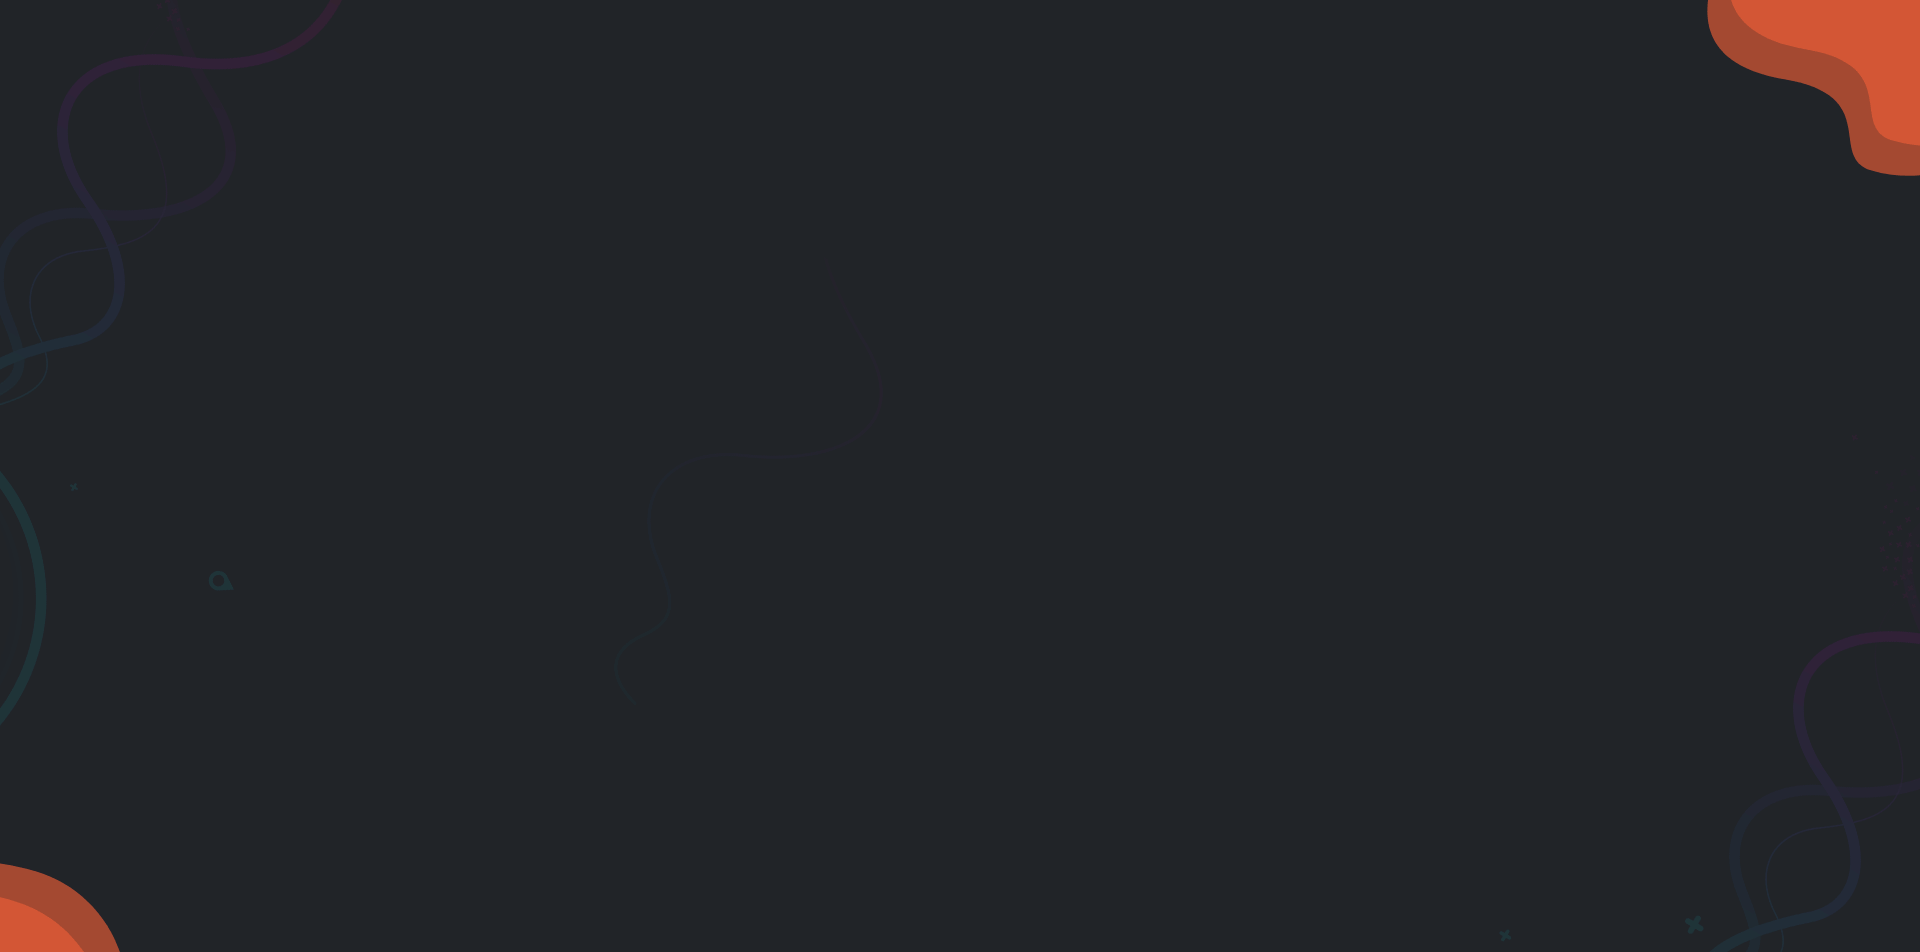
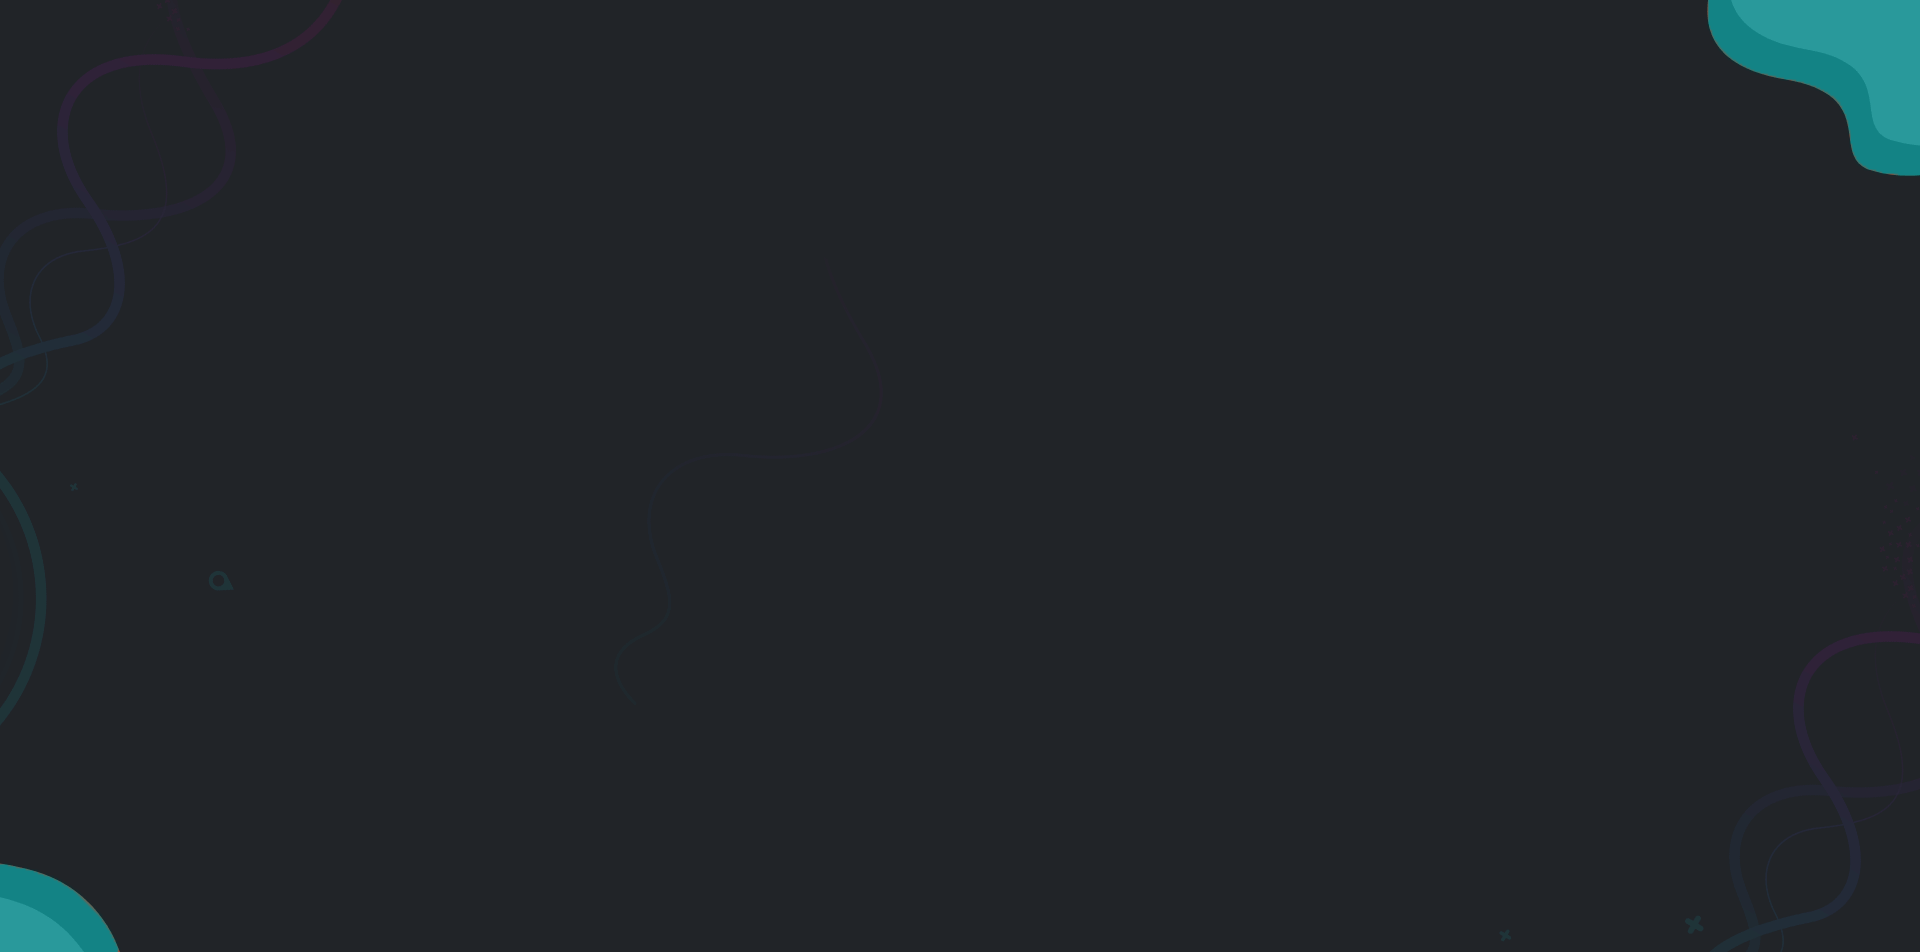
ded

Changed region(s): [[0.875, 0.0, 1.0, 0.1828], [0.0, 0.9139, 0.0625, 1.0]]

diff --git a/index.html b/index.html
@@ -3,10 +3,10 @@
 
 <head>
   <meta charset="utf-8">
-  <title>Morex - Personal Portfolio HTML Template</title>
+  <title>Fakhrul Alam</title>
   <meta name="description" content="Morden Bootstrap HTML5 Template">
   <meta name="viewport" content="width=device-width, initial-scale=1">
-  <link rel="shortcut icon" type="image/x-icon" href="assets/img/favicon.ico">
+  <link rel="shortcut icon" type="image/x-icon" href="assets/img/">
     
    <!-- ======= All CSS Plugins here ======== -->
   <link rel="stylesheet" href="assets/css/plugins/swiper-bundle.min.css">
@@ -47,7 +47,7 @@
     <div class="home2__hero--bg">
     
         <!-- Start header area -->
-        <header class="header__section  header__transparent">
+        <!-- <header class="header__section  header__transparent">
             <div class="container">
                 <div class="main__header d-flex justify-content-between align-items-center">
                     <div class="main__logo">
@@ -62,7 +62,7 @@
                     </button>
                 </div>
             </div>
-        </header>
+        </header> -->
         <!-- End header area -->
         <main class="main__content_wrapper">
             <!-- Start slider section -->
@@ -76,8 +76,8 @@
                                         <img class="hero__profile--thumbnail__media" src="assets/img/hero/profile-image.png" alt="img">
                                     </div>
                                     <div class="hero__profile--text">
-                                        <h2 class="hero__profile--title">Maras Faron</h2>
-                                        <span class="hero__profile--subtitle">Ui/Ux Desinger</span>
+                                        <h2 class="hero__profile--title">Fakhrul Alam</h2>
+                                        <span class="hero__profile--subtitle">Frontend Desinger</span>
                                     </div>
                                 </div>
                                 <ul class="hero__profile--info position__relative">
@@ -87,20 +87,19 @@
                                     </li>
                                     <li class="hero__profile--info__list">
                                         <span class="hero__profile--info__icon"><svg class="max-w-5" xmlns="http://www.w3.org/2000/svg" width="16" height="28" viewBox="0 0 24 24" fill="none" stroke="currentColor" stroke-width="2" stroke-linecap="round" stroke-linejoin="round"><path d="M4 4h16c1.1 0 2 .9 2 2v12c0 1.1-.9 2-2 2H4c-1.1 0-2-.9-2-2V6c0-1.1.9-2 2-2z"></path><polyline points="22,6 12,13 2,6"></polyline></svg></span>
-                                        <a class="hero__profile--info__text" href="mailto:exampal@gmail.com">example@gmail.com</a>
+                                        <a class="hero__profile--info__text" href="mailto:exampal@gmail.com">ifakhrul23@gmail.com</a>
                                     </li>
                                     <li class="hero__profile--info__list">
                                         <span class="hero__profile--info__icon"><svg class="max-w-5" width="16" height="34" fill="currentColor" stroke="currentColor" xmlns="http://www.w3.org/2000/svg" viewBox="0 0 384 512"><path d="M215.7 499.2C267 435 384 279.4 384 192C384 86 298 0 192 0S0 86 0 192c0 87.4 117 243 168.3 307.2c12.3 15.3 35.1 15.3 47.4 0zM192 256c-35.3 0-64-28.7-64-64s28.7-64 64-64s64 28.7 64 64s-28.7 64-64 64z"></path></svg></span>
-                                        <span class="hero__profile--info__text">fulbariFranciso,4200.</span>
+                                        <span class="hero__profile--info__text">Dhaka, Bangladesh</span>
                                     </li>
                                 </ul>
                             </div>
                             <div class="hero__content hero__profile--content">
                                 <span class="hero__content--subtitle text__secondary mb-10">HELLO  I'M</span>
-                                <h2 class="hero__content--title mb-15">Maras Faron! </h2>
-                                <h3 class="hero__content--subtitle2 mb-20">UX/UI Designer and Developer </h3>
-                                <p class="hero__content--desc mb-30">There are many variations of sum availabled 
-                                    in alley of type and scrambled it some.</p>
+                                <h2 class="hero__content--title mb-15">Fakhrul Alam! </h2>
+                                <h3 class="hero__content--subtitle2 mb-20">Frontend Designer </h3>
+                                <p class="hero__content--desc mb-30">An experienced web designer who focuses heavily on user experience and cutting-edge technologies to create visually stunning websites.</p>
                                 <button class="primary__btn download__btn mb-30">
                                     <svg class="download__btn--svg" xmlns="http://www.w3.org/2000/svg" width="24" height="24" viewBox="0 0 24 24" fill="none" stroke="currentColor" stroke-width="2" stroke-linecap="round" stroke-linejoin="round" ><path d="M21 15v4a2 2 0 0 1-2 2H5a2 2 0 0 1-2-2v-4"></path><polyline points="7 10 12 15 17 10"></polyline><line x1="12" y1="15" x2="12" y2="3"></line></svg>
                                     Download CV
@@ -108,10 +107,11 @@
                                 <div class="social__share style2 d-flex align-items-center">
                                     <span class="social__share--title">Follow Me: </span>
                                     <ul class="social__share--wrapper d-flex">
-                                        <li class="social__share--child"><a class="social__share--link" href="#">
-                                            <svg fill="currentColor" xmlns="http://www.w3.org/2000/svg"  viewBox="0 0 24 24" width="20px" height="20px">    <path d="M17.525,9H14V7c0-1.032,0.084-1.682,1.563-1.682h1.868v-3.18C16.522,2.044,15.608,1.998,14.693,2 C11.98,2,10,3.657,10,6.699V9H7v4l3-0.001V22h4v-9.003l3.066-0.001L17.525,9z"/></svg>
+                                        <li class="social__share--child"><a class="social__share--link" href="https://www.facebook.com/fakhrul.alam.20/">
+                                            
+                                            <img src="assets/img/icon/facebook-boxed-svgrepo-com.svg" alt="">
                                             <span class="visually-hidden">Facebook</span>
-                                        </a>
+                                            </a>
                                         </li>
                                         <li class="social__share--child"><a class="social__share--link" href="#">
                                             <svg fill="currentColor" xmlns="http://www.w3.org/2000/svg"  viewBox="0 0 24 24" width="20px" height="20px">    <path d="M12,2C6.477,2,2,6.477,2,12c0,4.237,2.636,7.855,6.356,9.312c-0.087-0.791-0.167-2.005,0.035-2.868 c0.182-0.78,1.172-4.971,1.172-4.971s-0.299-0.599-0.299-1.484c0-1.391,0.806-2.428,1.809-2.428c0.853,0,1.265,0.641,1.265,1.408 c0,0.858-0.546,2.141-0.828,3.329c-0.236,0.996,0.499,1.807,1.481,1.807c1.777,0,3.143-1.874,3.143-4.579 c0-2.394-1.72-4.068-4.177-4.068c-2.845,0-4.515,2.134-4.515,4.34c0,0.859,0.331,1.781,0.744,2.282 c0.082,0.099,0.093,0.186,0.069,0.287c-0.076,0.316-0.244,0.995-0.277,1.134c-0.043,0.183-0.145,0.222-0.334,0.133 c-1.249-0.582-2.03-2.408-2.03-3.874c0-3.154,2.292-6.052,6.608-6.052c3.469,0,6.165,2.472,6.165,5.776 c0,3.447-2.173,6.22-5.189,6.22c-1.013,0-1.966-0.527-2.292-1.148c0,0-0.502,1.909-0.623,2.378 c-0.226,0.868-0.835,1.958-1.243,2.622C9.975,21.843,10.969,22,12,22c5.522,0,10-4.478,10-10S17.523,2,12,2z"/></svg>
@@ -123,7 +123,7 @@
                                             <span class="visually-hidden">Twitter</span>
                                             </a>
                                         </li>
-                                        <li class="social__share--child"><a class="social__share--link" href="#">
+                                        <li class="social__share--child"><a class="social__share--link" href="https://www.instagram.com/fakhrul_alam_/">
                                             <svg fill="currentColor" xmlns="http://www.w3.org/2000/svg"  viewBox="0 0 24 24" width="20px" height="20px"><path d="M 4 2 C 2.898438 2 2 2.898438 2 4 L 2 20 C 2 21.101563 2.898438 22 4 22 L 20 22 C 21.101563 22 22 21.101563 22 20 L 22 4 C 22 2.898438 21.101563 2 20 2 Z M 4 4 L 20 4 L 20 8 L 16.453125 8 C 15.355469 6.777344 13.765625 6 12 6 C 10.234375 6 8.644531 6.777344 7.546875 8 L 4 8 Z M 17 5 L 17 7 L 19 7 L 19 5 Z M 12 8 C 14.222656 8 16 9.777344 16 12 C 16 14.222656 14.222656 16 12 16 C 9.777344 16 8 14.222656 8 12 C 8 9.777344 9.777344 8 12 8 Z M 12 10 C 11.800781 10 11.601563 10 11.402344 10.097656 C 11.699219 10.300781 12 10.601563 12 11 C 12 11.601563 11.601563 12 11 12 C 10.601563 12 10.300781 11.800781 10.097656 11.402344 C 10 11.601563 10 11.800781 10 12 C 10 13.101563 10.898438 14 12 14 C 13.101563 14 14 13.101563 14 12 C 14 10.898438 13.101563 10 12 10 Z"/></svg>
                                             <span class="visually-hidden">Instagram</span>
                                             </a>
@@ -133,11 +133,11 @@
                                 
                             </div>
                         </div>
-                        <div class="home__navigation--menu">
+                        <!-- <div class="home__navigation--menu">
                             <nav>
                                 <ul class="home__navigation--menu__wrapper">
                                     <li class="home__navigation--menu__items">
-                                        <a class="home__navigation--menu__link" href="index-2.html">
+                                        <a class="home__navigation--menu__link" href="index.html">
                                             <span class="home__navigation--menu__text">HOME</span>
                                             <span class="home__navigation--menu__icon"><svg width="16" fill="currentColor" xmlns="http://www.w3.org/2000/svg" viewBox="0 0 576 512"><path d="M575.8 255.5c0 18-15 32.1-32 32.1h-32l.7 160.2c0 2.7-.2 5.4-.5 8.1V472c0 22.1-17.9 40-40 40H456c-1.1 0-2.2 0-3.3-.1c-1.4 .1-2.8 .1-4.2 .1H416 392c-22.1 0-40-17.9-40-40V448 384c0-17.7-14.3-32-32-32H256c-17.7 0-32 14.3-32 32v64 24c0 22.1-17.9 40-40 40H160 128.1c-1.5 0-3-.1-4.5-.2c-1.2 .1-2.4 .2-3.6 .2H104c-22.1 0-40-17.9-40-40V360c0-.9 0-1.9 .1-2.8V287.6H32c-18 0-32-14-32-32.1c0-9 3-17 10-24L266.4 8c7-7 15-8 22-8s15 2 21 7L564.8 231.5c8 7 12 15 11 24z"></path></svg></span>
                                         </a>
@@ -174,7 +174,7 @@
                                     </li>
                                 </ul>
                             </nav>
-                        </div>
+                        </div> -->
                     </div>
                 </div>
             </div>
@@ -184,13 +184,8 @@
             <footer class="footer footer__section2">
                 <div class="container">
                     <div class="main__footer d-flex justify-content-between align-items-center">
-                        <p class="copyright__content mb-0">Developed with <span>
-                            <svg xmlns="http://www.w3.org/2000/svg" width="24" height="24" viewBox="0 0 24 24" fill="currentColor" stroke="text-paragraph" stroke-width="2" stroke-linecap="round" stroke-linejoin="round" class="feather feather-heart"><path d="M20.84 4.61a5.5 5.5 0 0 0-7.78 0L12 5.67l-1.06-1.06a5.5 5.5 0 0 0-7.78 7.78l1.06 1.06L12 21.23l7.78-7.78 1.06-1.06a5.5 5.5 0 0 0 0-7.78z"></path></svg>
-                            </span>  by <span><a class="text__secondary" href="#">Morex</a></span>© 2023</p>
-                        <ul class="footer__menu d-flex">
-                            <li><a class="footer__menu--link" href="shop.html">Terms & Condition</a></li>
-                            <li><a class="footer__menu--link" href="about.html"> Privacy Policy</a></li>
-                        </ul>
+                        <p class="copyright__content mb-0">Fakhrul Alam © 2023</p>
+                      
                     </div>
                 </div>
             </footer>

diff --git a/assets/css/style.css b/assets/css/style.css
@@ -32,7 +32,7 @@
 */
 :root {
   --primary-color: #333333;
-  --secondary-color: #EE5F38;
+  --secondary-color: #108082;
   --secondary-color2: #ED1D24;
   --hover-color: #F6B924;
   --yellow-color: #FF9800;
@@ -3142,7 +3142,7 @@ input[type=number]::-webkit-outer-spin-button {
 
 @media only screen and (min-width: 1200px) {
   .hero__section--inner2 {
-    padding: 14rem 0 7rem;
+    padding: 7rem 0 7rem;
   }
 }
 
